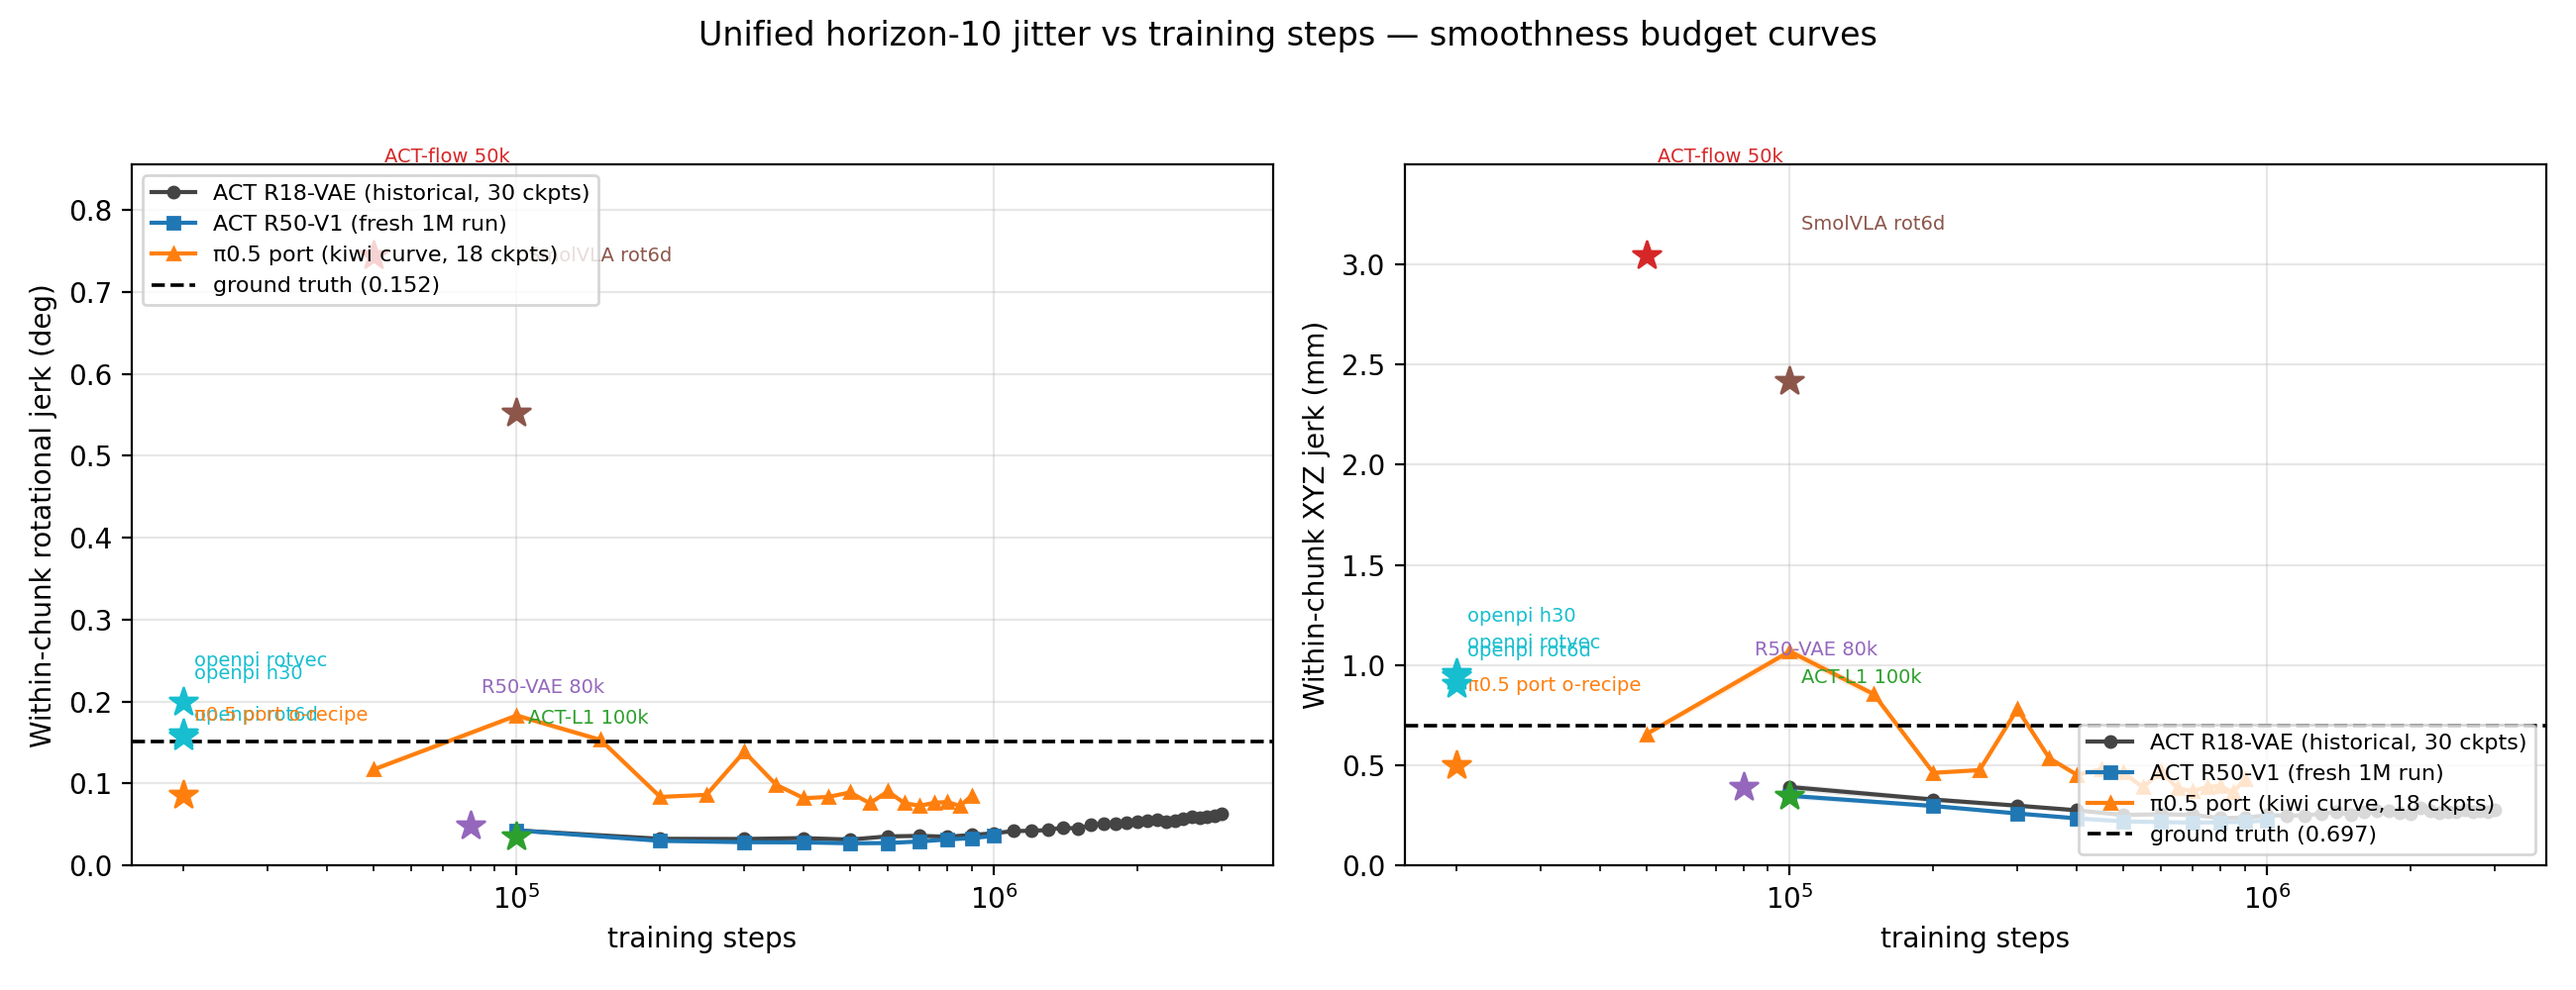
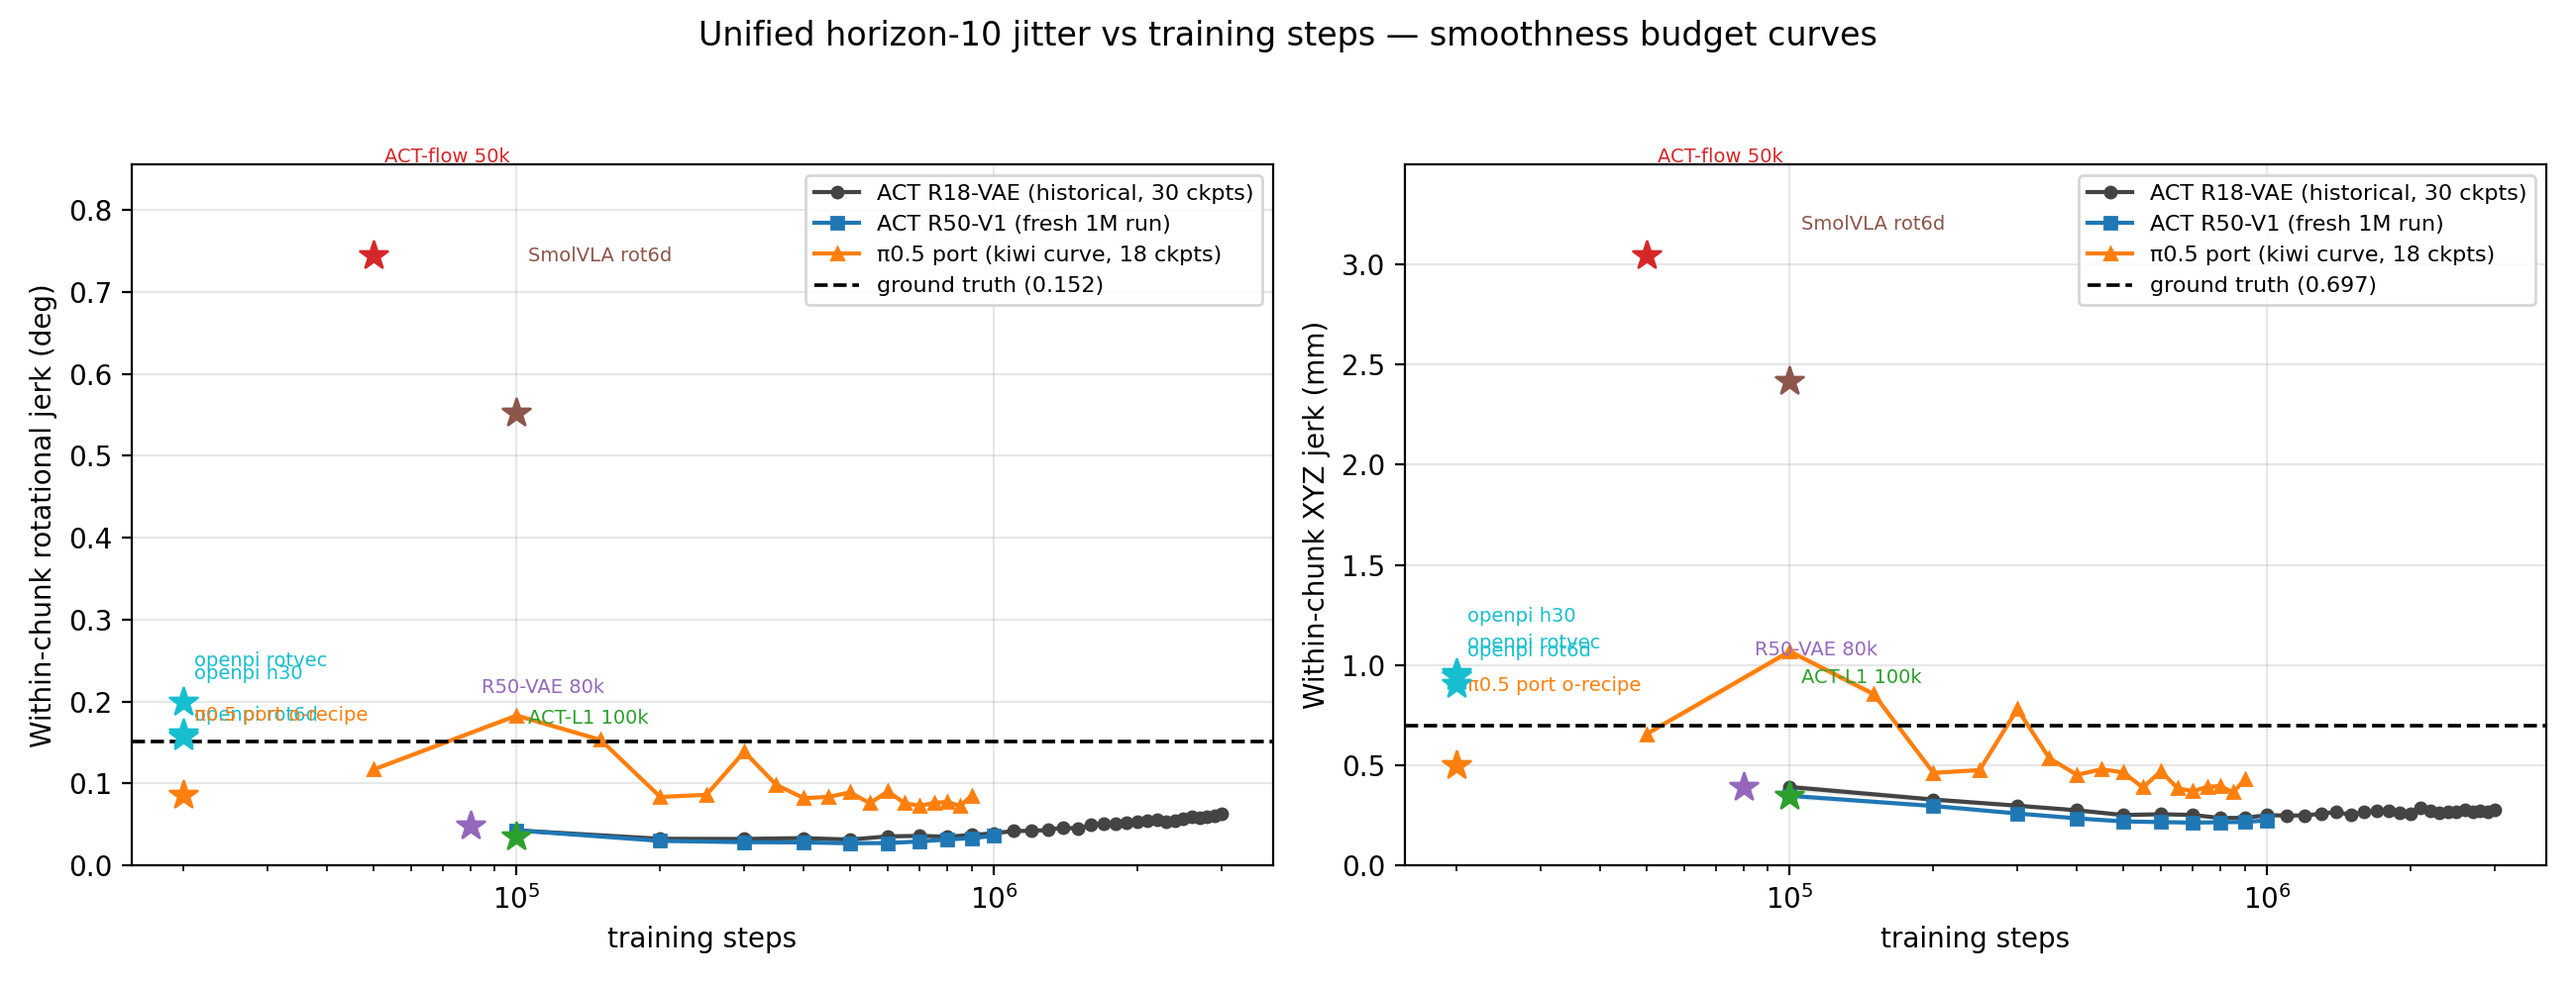
plot_unified_h10: jitter-budget legend to upper right (user request)

diff --git a/examples/umi_relative_ee/act_flow_ablation/plot_unified_h10.py b/examples/umi_relative_ee/act_flow_ablation/plot_unified_h10.py
@@ -372,7 +372,7 @@ def fig_jitter_budget(rows: dict[str, dict]) -> None:
         ax.set_ylabel(ylab)
         ax.set_ylim(0, ymax * 1.15)
         ax.grid(alpha=0.3)
-        ax.legend(fontsize=8, loc="upper left" if met == "rot_jerk_deg" else "lower right")
+        ax.legend(fontsize=8, loc="upper right")
     fig.tight_layout(rect=(0, 0, 1, 0.94))
     out = os.path.join(FIG_DIR, "unified_h10_jitter_budget.png")
     fig.savefig(out, dpi=200)
